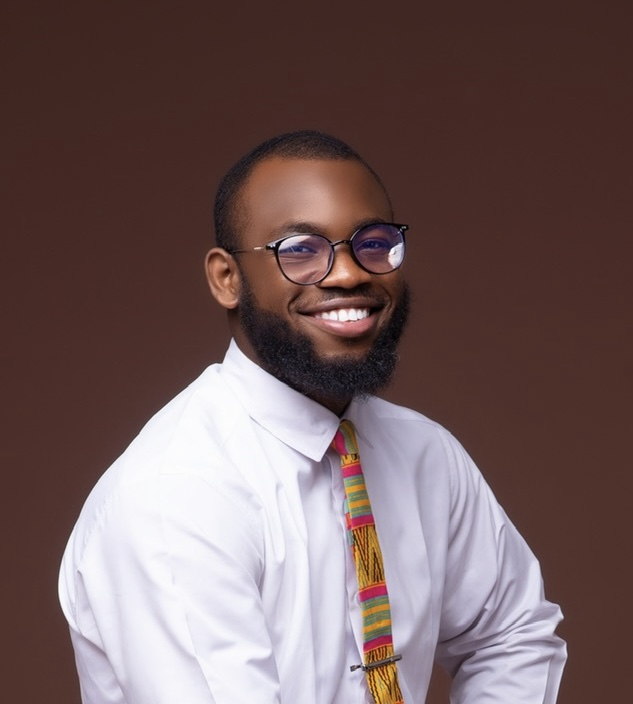
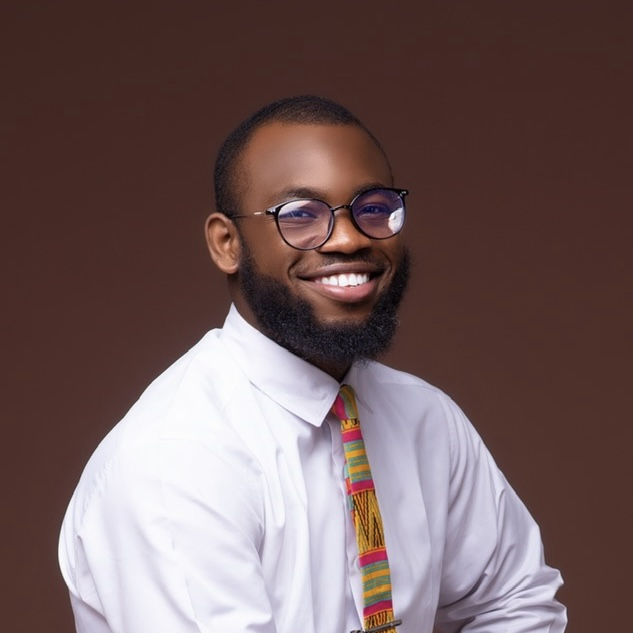
made a few changes

diff --git a/app/components/resources/resources.tsx b/app/components/resources/resources.tsx
@@ -22,7 +22,7 @@ const Resources = () => {
     <div>
       <div className="lg:flex-col cursor-pointer  ">
         <div className="flex flex-col gap-[1em] ">
-          <h1 className="bg-gray-200 text-gray-500 py-[1em] px-[1.5em]  text-center text-[25px] xl:w-[8em] rounded-full mx-auto mb-4">
+          <h1 className="bg-[#FAFAFA] text-[#8E9BAE] py-[1em] px-[1.5em]  text-center text-[16px] xl:w-[8em] font-[500] rounded-full mx-auto mb-4">
             Resources
           </h1>
           <h1 className="font-cocon font-bold xl:text-[40px] text-center xl:w-[25em] mx-auto text-[30px]">

diff --git a/data/index.ts b/data/index.ts
@@ -1,15 +1,15 @@
 export const teamMembers = [
   {
     id: 1,
-    name: "Fada",
+    name: "Sunday",
     role: "Design",
-    image: "/meet_our_dream_team_fada.png",
+    image: "/images/fada.jpeg",
     instagram: "https://www.instagram.com/",
     linkedin: "https://www.linkedin.com/",
   },
   {
     id: 2,
-    name: "Dave",
+    name: "Dumto",
     role: "Engineering Team Lead",
     image: "/dumto.jpeg",
     instagram: "https://www.instagram.com/",

diff --git a/app/aboutus/components/TeamMembers.tsx b/app/aboutus/components/TeamMembers.tsx
@@ -26,7 +26,7 @@ const TeamMembers: React.FC = () => {
             src={activeMember.image}
             alt={activeMember.name}
             width={500}  // Set appropriate width for the image
-            height={500} // Set appropriate height for the image
+            height={400} // Set appropriate height for the image
             className="h-auto object-cover rounded-[1.25rem]"
           />
         </div>

diff --git a/app/blog/[slug]/page.tsx b/app/blog/[slug]/page.tsx
@@ -1,3 +1,4 @@
+
 import { FC } from "react";
 import { useRouter } from "next/router"; // Optional for non-Server Component
 import Footer from "@/app/components/Footer";
